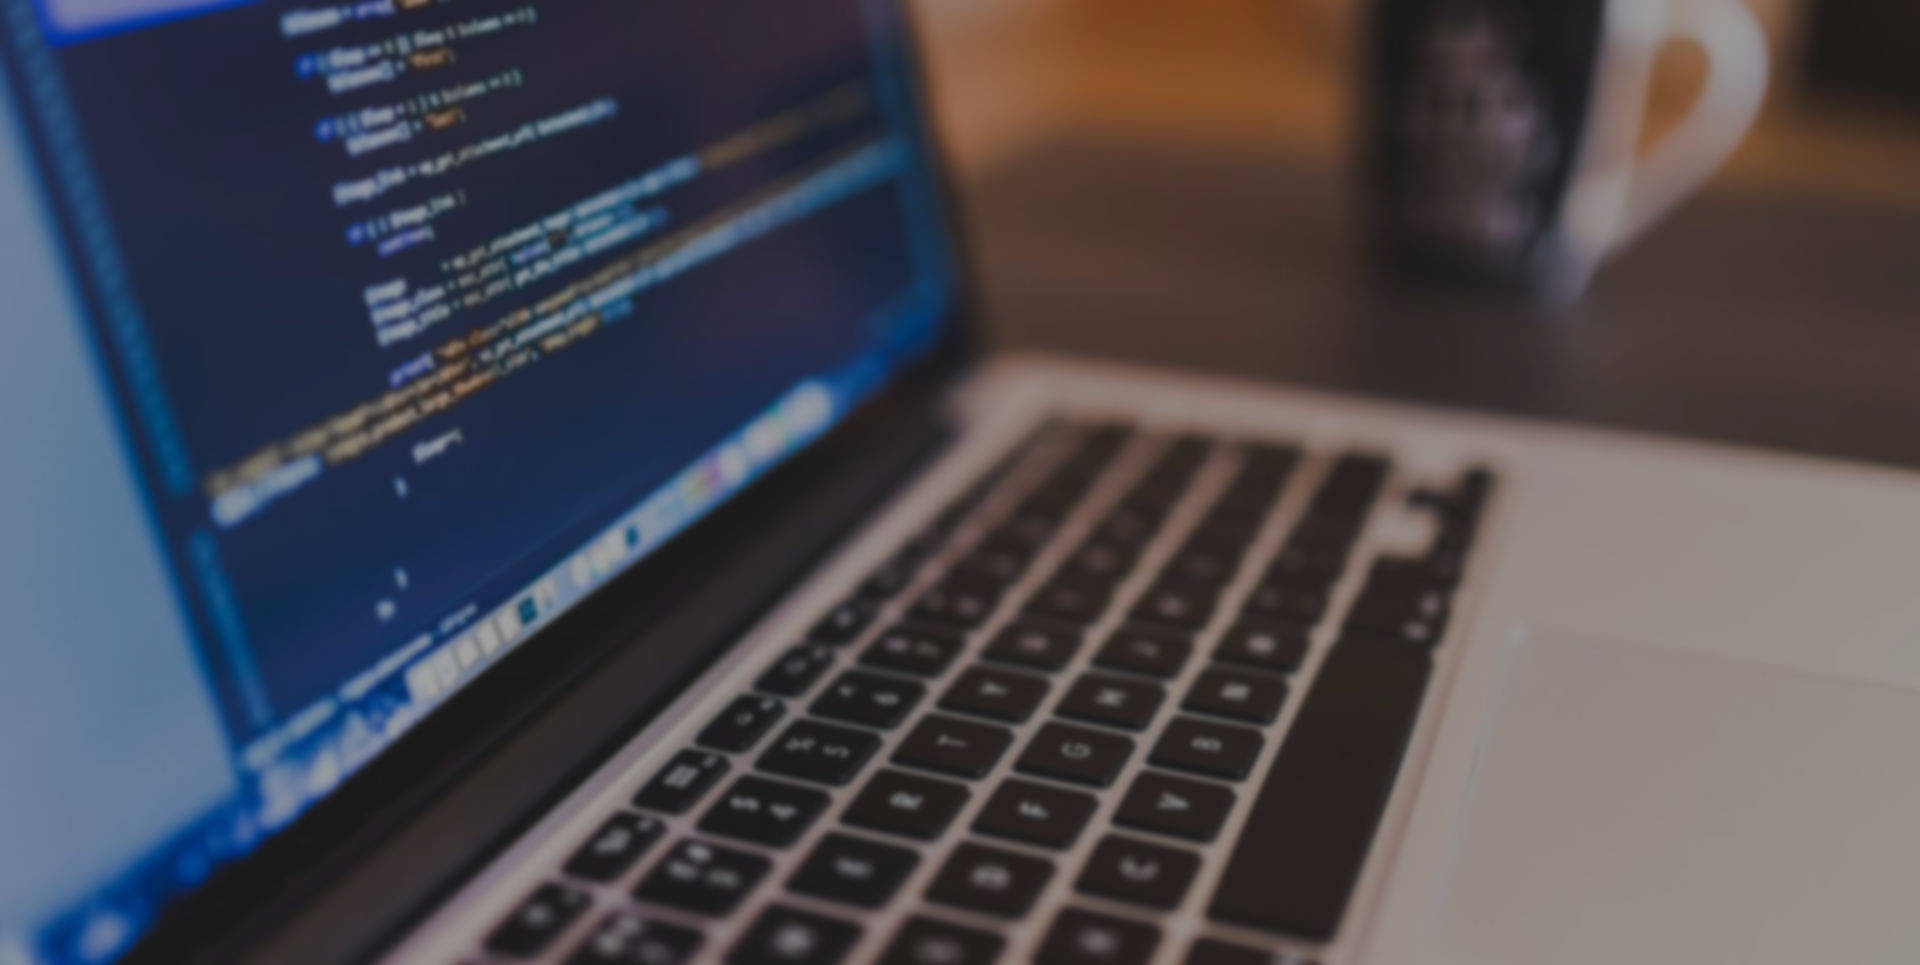
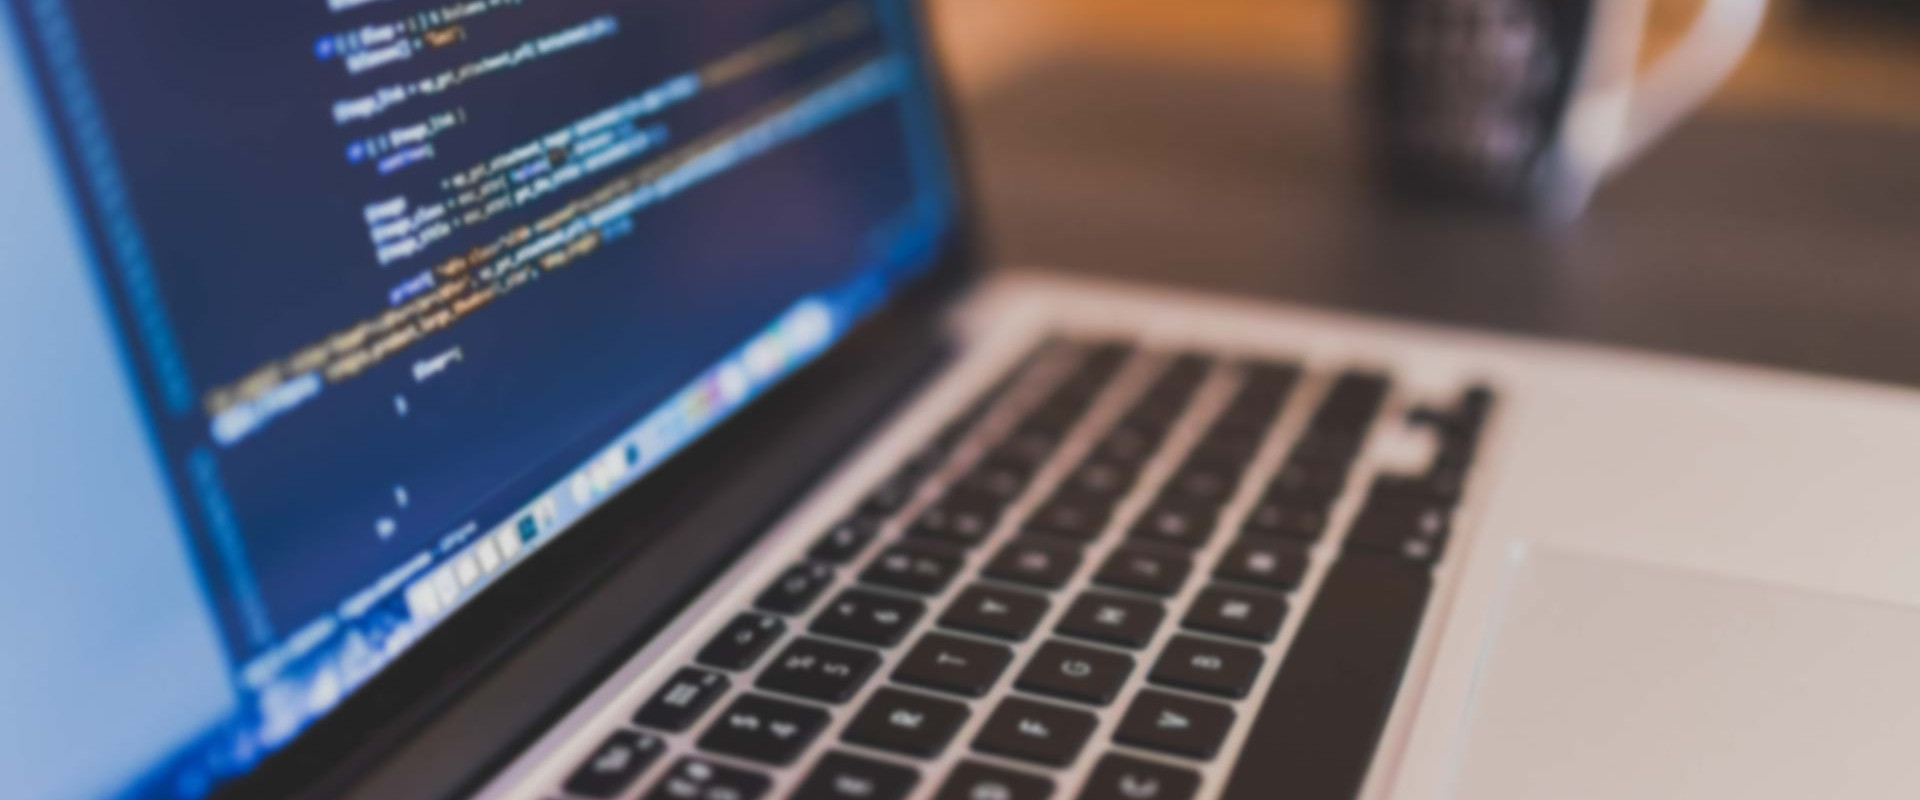
Update covers and config

diff --git a/source/_posts/ngh-you-want-to-know-this-command.md b/source/_posts/ngh-you-want-to-know-this-command.md
@@ -1,8 +1,10 @@
 ---
 title: ngh - you want to know this command
+subtitle: Easy deployment of Angular projects to GitHub Pages
 date: 2017-04-16
 tags: Angular
 cover: cover.jpg
+cover_color: 627286
 ---
 
 Back in the days there was a command in the [Angular CLI](https://cli.angular.io/) named `ng ghpages`. It was intended to provide a trival way of publishing the application generated with `ng`. It was building the project, grabbing the contents of the `dist` directory and pushing them to the `gh-pages` branch of the repository. Then, the application was available online at `<USERNAME>.github.io/<REPOSITORY NAME>`.

diff --git a/source/_posts/NodeSchool-Lodz-6.md b/source/_posts/NodeSchool-Lodz-6.md
@@ -5,6 +5,7 @@ tags:
  - NodeSchool 
  - Node.js
 cover: header.jpg
+cover_color: 3a3e64
 ---
 
 The 6th edition of NodeSchool workshops in Łódź is history now. The main topic of the meeting was 'ES6 and beyond'. During the event there were two presentations given and I can modestly tell, that they included my [presentation about the state of ES6](http://zbic.in/the-state-of-es6). In this non-technical post, I'd like to share few observations and thoughts that crossed my mind while organizing the meeting.

diff --git a/source/_posts/Remembering-what-this-refers-to-the-A-B-C-D-method.md b/source/_posts/Remembering-what-this-refers-to-the-A-B-C-D-method.md
@@ -3,6 +3,8 @@ title: 'Remembering what ''this'' refers to - the A, B, C, D method'
 date: 2016-09-04
 tags: JavaScript
 cover: diomari-madulara-110583.jpg
+cover_color: f5e9da
+backdrop_opacity: 0.7
 ---
 
 The `this` reference and how it can dynamically change in a runtime is one of the characteristic features of JavaScript. As far as I know, there is no analogy of this behavior in any other popular programming language.

diff --git a/source/_posts/Learn-JavaScript-not-frameworks.md b/source/_posts/Learn-JavaScript-not-frameworks.md
@@ -3,6 +3,7 @@ title: 'Learn JavaScript, not frameworks'
 tags: JavaScript
 date: 2017-11-01 16:30:48
 cover: jessica-ruscello-196422.jpg
+cover_color: d0bca4
 subtitle: A reasonable way to keep up with changes in the JavaScript universe.
 description: A reasonable way to keep up with changes in the JavaScript universe.
 ---

diff --git a/source/_posts/Debugging-Cordova-applications.md b/source/_posts/Debugging-Cordova-applications.md
@@ -7,6 +7,7 @@ tags:
   - Android
 date: 2017-10-08 17:14:11
 cover: lilly-rum-342740.jpg
+cover_color: 323034
 description: From Chrome Dev Tools to raw ADB logcat output. This article covers debugging in desktop web browsers as well as in Android devices.
 
 ---

diff --git a/source/_posts/The-concept-of-an-idea-bag.md b/source/_posts/The-concept-of-an-idea-bag.md
@@ -4,6 +4,7 @@ subtitle: Take notes of random, interrupting ideas.
 date: 2017-04-03
 tags: Other
 cover: lee-campbell-191016.jpg
+cover_color: 493723
 updateDate: 2017-10-31
 description: Take notes of random, interrupting ideas.
 ---

diff --git a/source/_posts/Go-home-JS-you-re-drunk-1.md b/source/_posts/Go-home-JS-you-re-drunk-1.md
@@ -3,6 +3,8 @@ title: 'Go home JS, you''re drunk'
 date: 2015-10-17
 tags: JavaScript
 cover: eaters-collective-109606.jpg
+cover_color: c8bbad
+backdrop_opacity: 0.7
 ---
 
 What would be the result of the following code:

diff --git a/source/_posts/Music-Driven-Development.md b/source/_posts/Music-Driven-Development.md
@@ -3,6 +3,7 @@ title: Music Driven Development
 date: 2017-03-14
 tags: Other
 cover: cover.jpg
+cover_color: ffdb32
 ---
 
 Back in the days, I tweeted few words about staying focused:

diff --git a/source/_posts/NodeSchool-Lodz-8.md b/source/_posts/NodeSchool-Lodz-8.md
@@ -6,6 +6,7 @@ tags:
  - NodeSchool
  - Node.js
 cover: header.jpg
+cover_color: 3a3e64
 updateDate: 2017-10-23
 description: Brief summary of the 8th edition of the workshops.
 ---
